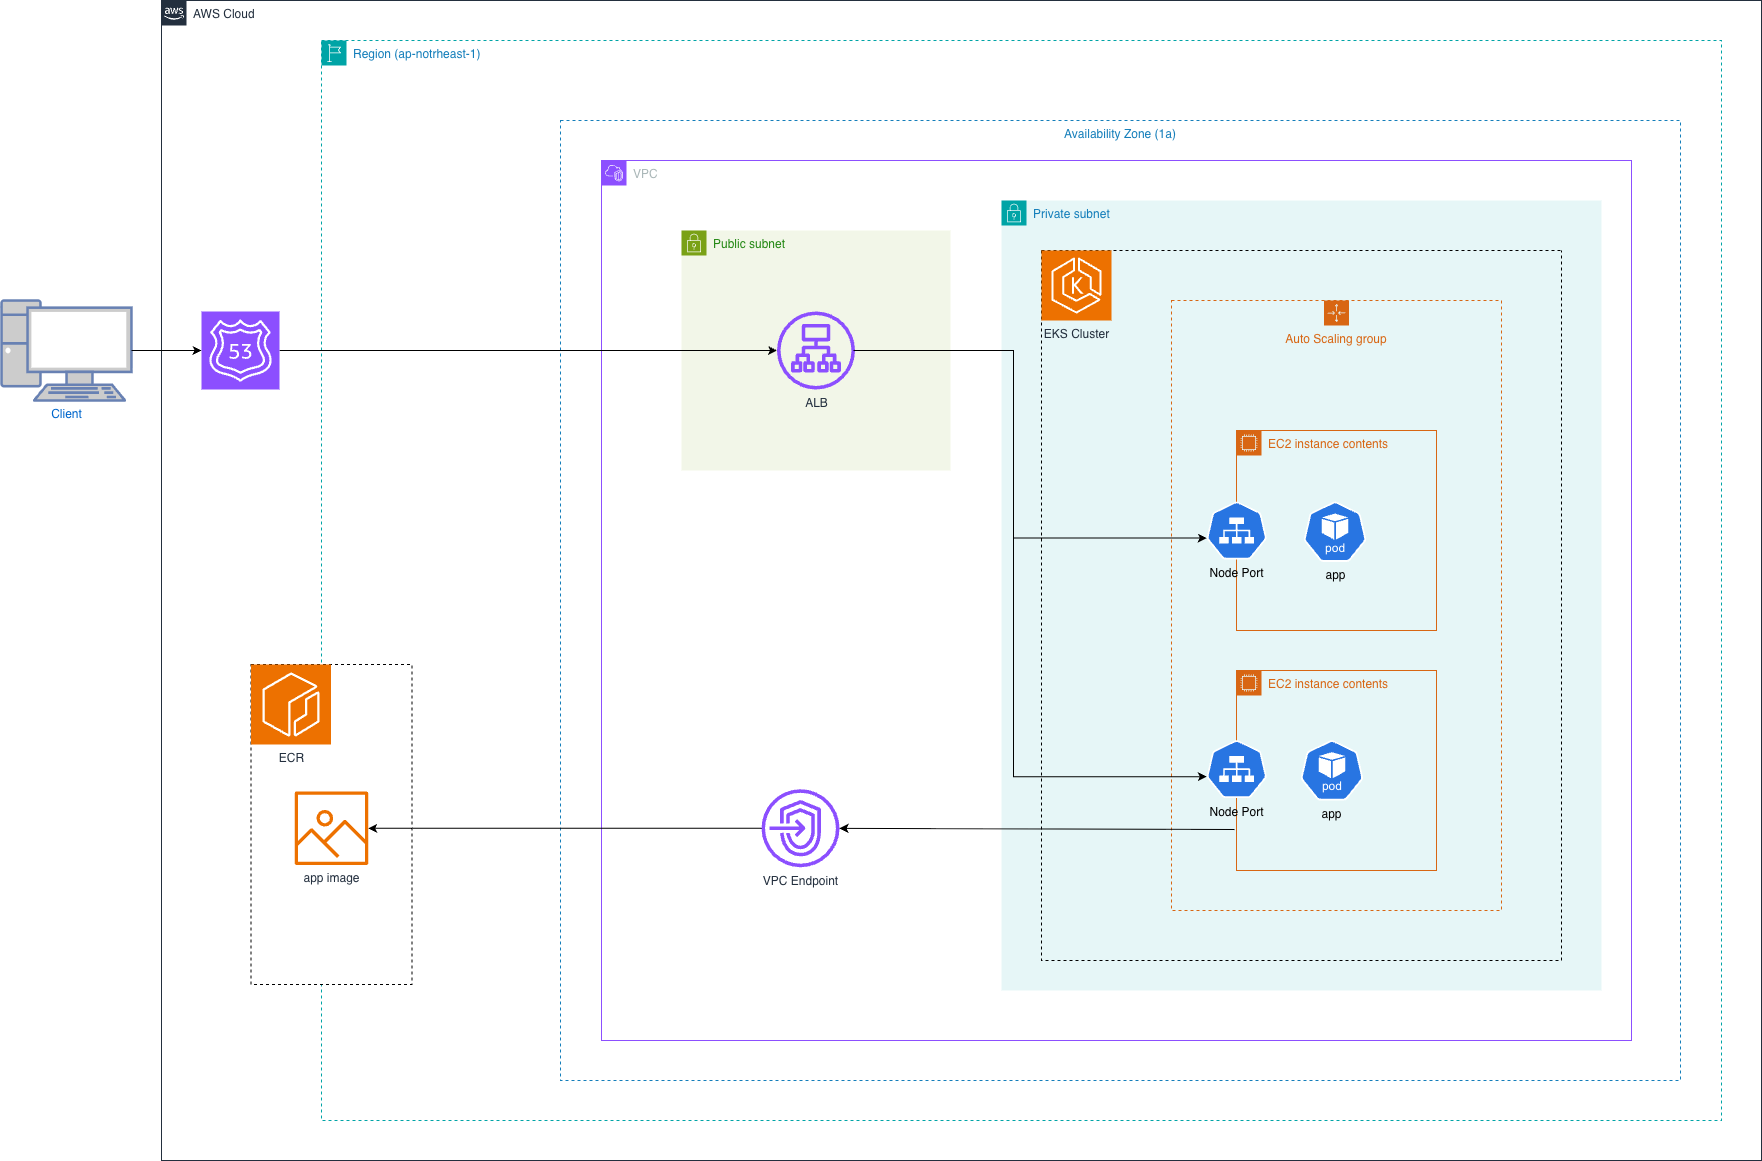
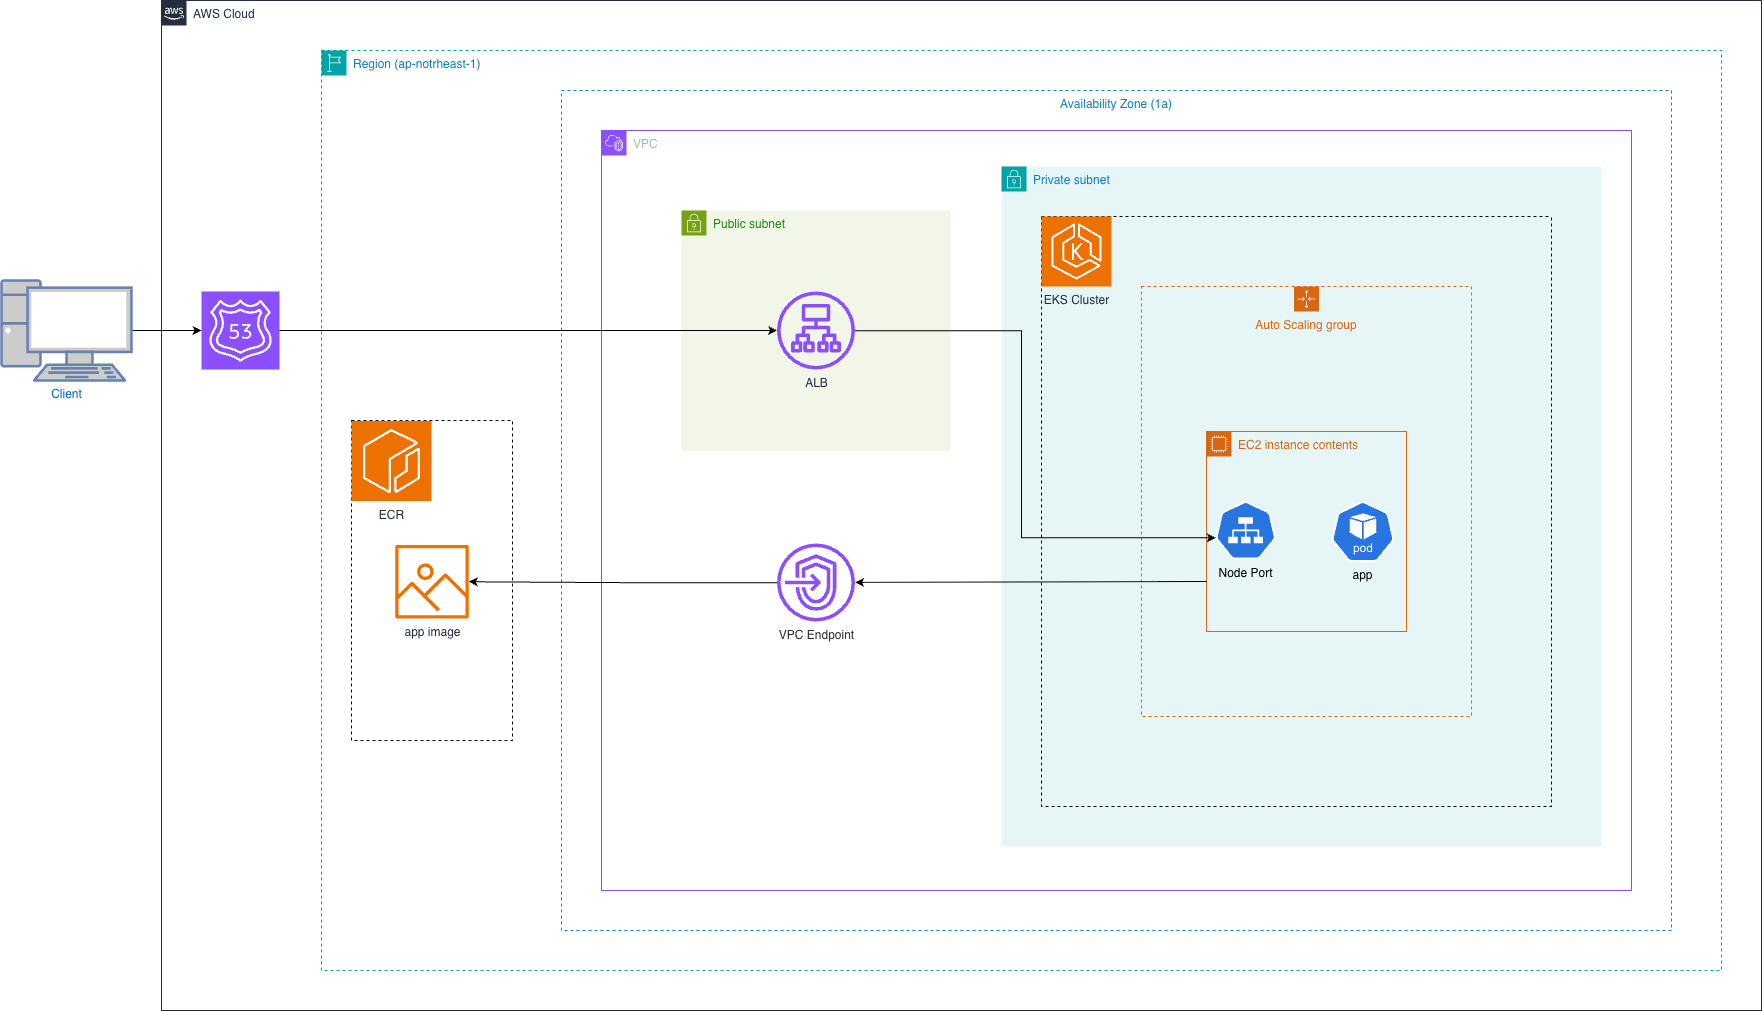
📝 Update README

diff --git a/README.md b/README.md
@@ -1,3 +1,45 @@
 # eks-sandbox
 
+A Kubernetes deployment sandbox with local (kind) and production (EKS) environments.
+
 ![alt text](infra-img.png)
+
+## Repository Structure
+
+```
+.
+├── app/                     # Application source code
+│   ├── main.go              # Go HTTP server
+│   └── index.html           # Static HTML page
+├── terraform/               # Infrastructure as Code
+│   ├── main.tf              # EKS cluster, VPC, ALB, ECR, IAM
+│   ├── provider.tf          # AWS provider configuration
+│   └── backend.tf           # Terraform state backend
+├── k8s/                     # Kubernetes manifests and Helm charts
+│   ├── helmfile.yaml        # Multi-environment deployment config
+│   ├── charts/              # Helm charts
+│   │   └── http-server/     # Application Helm chart
+│   ├── values/              # Environment-specific values
+│   │   ├── development/     # kind cluster values
+│   │   └── production/      # EKS cluster values
+│   └── cluster/             # Cluster setup documentation
+│       ├── kind/            # Local development cluster
+│       └── eks/             # Production EKS cluster
+├── Dockerfile               # Container image definition
+└── compose.yaml             # Local Docker Compose setup
+```
+
+## Documentation
+
+- **[Kind Cluster Operations](./k8s/cluster/kind/README.md)** - Local development with kind
+- **[EKS Cluster Operations](./k8s/cluster/eks/README.md)** - Production deployment on AWS EKS
+
+## Technologies
+
+- **Kubernetes**: Container orchestration (kind for dev, EKS for prod)
+- **Helm**: Kubernetes package manager
+- **Helmfile**: Declarative multi-environment deployment
+- **Terraform**: Infrastructure provisioning on AWS
+- **Docker**: Container runtime
+- **Go**: Application programming language
+- **AWS**: EKS, ECR, ALB, VPC, Route53, ACM
